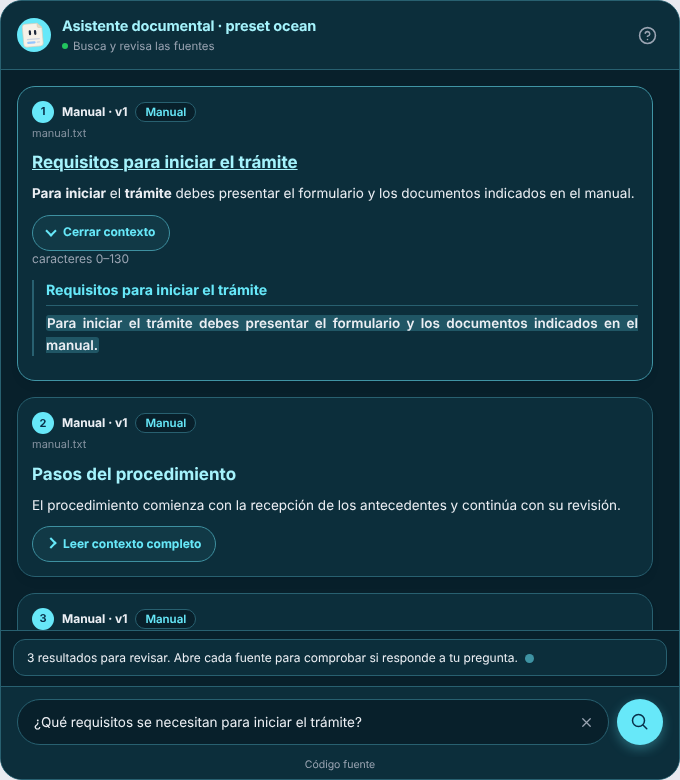
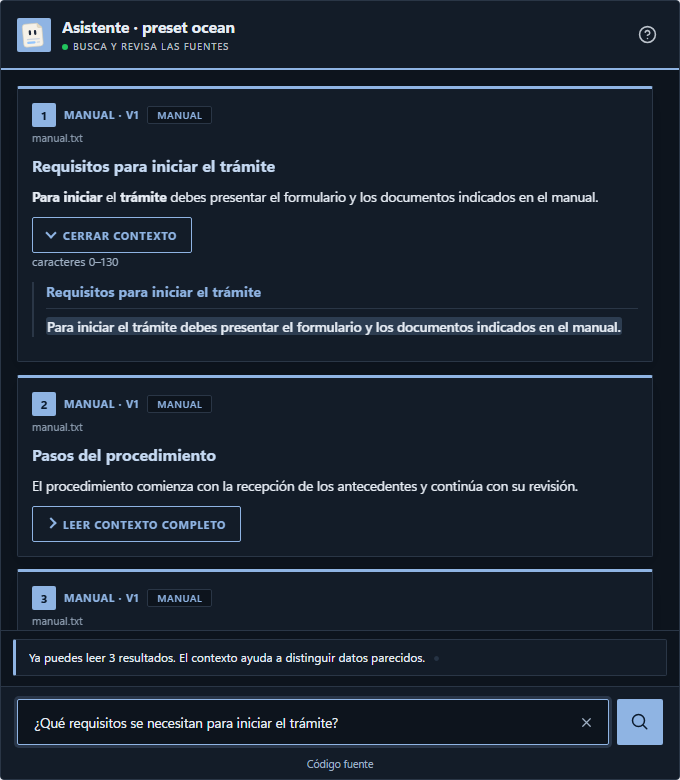
feat(widget): temas editorial e institucional con estructura propia
editorial y forest componen los resultados como un periódico (titulares serif,
filetes, versalitas, enlaces); ocean y midnight son institucionales (cabecera
sólida, esquinas rectas, rótulos en mayúsculas, filete sobre cada tarjeta).
Ya no son recolores del diseño clásico. La estructura va por data-preset, así que
classic, minimal, contrast y los buscadores no cambian. Se regeneran las capturas.

Changed region(s): [[0.0, 0.0, 1.0, 1.0], [0.9265, 0.0308, 0.9574, 0.0615]]

diff --git a/ipsis/servicio/estaticos/widget.js b/ipsis/servicio/estaticos/widget.js
@@ -285,6 +285,58 @@
   // los que se usan si el servicio no responde: `config/styles.yaml`
   // las redefine y el servicio las sirve en /styles.css, que se enlaza
   // DESPUES de este bloque (ver mas abajo) y por tanto gana.
+  // Estructura por preset que las variables no alcanzan: @E editorial, @F forest, @I institucional, @A todas.
+  var FAMILIAS = [
+    "@E .rw-cabecera{border-bottom:3px double var(--rw-borde);}",
+    "@E .rw-busqueda .rw-resultado{background:transparent;border:0;border-top:1px solid var(--rw-borde-resultado);",
+    "  border-radius:0;box-shadow:none;padding:18px 2px 20px;margin:0;}",
+    "@E .rw-busqueda .rw-resultado:first-child{border-top:2px solid var(--rw-texto);}",
+    "@E .rw-busqueda .rw-resultado-numero{min-width:0;height:auto;padding:0;background:none;color:var(--rw-acento);",
+    "  font:italic 400 24px/1 var(--rw-fuente-titulo);}",
+    "@E .rw-resultado-alcance{padding:0 0 0 9px;border:0;border-left:1px solid var(--rw-borde-resultado);border-radius:0;",
+    "  background:transparent;color:var(--rw-texto-suave);font-weight:500;}",
+    "@E .rw-busqueda .rw-resultado-titulo{line-height:1.22;}",
+    "@E .rw-resultado-vista,@E .rw-documento{font-family:var(--rw-fuente-titulo);}",
+    "@E .rw-busqueda details > summary{min-height:0;padding:0 0 2px;border:0;border-bottom:1px solid currentColor;",
+    "  border-radius:0;background:transparent;font-size:10.5px;text-transform:uppercase;letter-spacing:.1em;}",
+    "@E .rw-seguir{border:1px solid var(--rw-texto);background:transparent;color:var(--rw-texto);",
+    "  text-transform:uppercase;letter-spacing:.1em;}",
+    "@E .rw-voz-burbuja{padding:2px 0 2px 14px;background:transparent;border:0 solid var(--rw-acento);border-left-width:2px;font:italic 1em var(--rw-fuente-titulo);}",
+    "@F .rw-busqueda .rw-resultado,@F .rw-busqueda .rw-resultado:first-child{background:var(--rw-superficie);",
+    "  border:1px solid var(--rw-borde-resultado);border-inline-start:4px solid var(--rw-acento);",
+    "  border-radius:0 var(--rw-radio-control) var(--rw-radio-control) 0;padding:14px 16px 16px;margin:0 0 14px;}",
+    "@I[data-preset=ocean]{--rw-cab-fondo:var(--rw-acento);--rw-cab-texto:var(--rw-acento-texto);--rw-cab-linea:transparent;}",
+    "@I[data-preset=midnight]{--rw-cab-fondo:var(--rw-superficie);--rw-cab-texto:var(--rw-texto);--rw-cab-linea:var(--rw-acento);}",
+    "@media (prefers-color-scheme:dark){@I[data-preset=ocean]{--rw-cab-fondo:var(--rw-superficie);",
+    "  --rw-cab-texto:var(--rw-texto);--rw-cab-linea:var(--rw-acento);}}",
+    "@I .rw-cabecera{background:var(--rw-cab-fondo);color:var(--rw-cab-texto);border-bottom:2px solid var(--rw-cab-linea);}",
+    "@I .rw-cabecera h2{color:var(--rw-cab-texto);}",
+    "@I .rw-subtitulo,@I .rw-cabecera summary,@I .rw-cerrar{color:color-mix(in srgb,var(--rw-cab-texto) 80%,transparent);}",
+    "@I .rw-cabecera summary:hover,@I .rw-cerrar:hover,@I .rw-cerrar:focus-visible{color:var(--rw-cab-texto);",
+    "  background:color-mix(in srgb,var(--rw-cab-texto) 14%,transparent);}",
+    "@I .rw-busqueda .rw-resultado{border-top:3px solid var(--rw-acento);box-shadow:none;}",
+    "@I .rw-busqueda .rw-resultado:hover{border-color:var(--rw-borde-resultado);border-top-color:var(--rw-acento);}",
+    "@I .rw-busqueda .rw-resultado-numero{min-width:24px;height:24px;border-radius:2px;font-size:12px;}",
+    "@I .rw-resultado-alcance{border-radius:2px;text-transform:uppercase;letter-spacing:.05em;font-size:10px;}",
+    "@I .rw-busqueda details > summary{border-radius:2px;font-size:11px;text-transform:uppercase;letter-spacing:.07em;",
+    "  background:transparent;border-color:var(--rw-acento);}",
+    "@I .rw-busqueda details > summary:hover{background:var(--rw-acento);color:var(--rw-acento-texto);}",
+    "@I .rw-seguir{background:var(--rw-acento);color:var(--rw-acento-texto);border-color:var(--rw-acento);",
+    "  text-transform:uppercase;letter-spacing:.09em;}",
+    "@I .rw-voz-burbuja{border-left:3px solid var(--rw-acento);}",
+    "@A .rw-subtitulo{text-transform:uppercase;letter-spacing:.09em;font-size:10px;}",
+    "@A .rw-resultado-doc{text-transform:uppercase;letter-spacing:.08em;}",
+    "@E .rw-resultado-doc{color:var(--rw-acento);}@I .rw-resultado-doc{color:var(--rw-seccion);}",
+    "@A .rw-voz-burbuja{border-radius:var(--rw-radio-control);box-shadow:none;}",
+    "@A .rw-voz[data-avatar='si'] .rw-voz-burbuja::after{display:none;}",
+    "@A .rw-seguir,@A .rw-sugerencias button{border-radius:var(--rw-radio-control);box-shadow:none;}",
+    "@A[data-modo='busqueda'] .rw-form input,@A[data-modo='busqueda'] .rw-form .rw-enviar{border-radius:var(--rw-radio-control);}",
+    "@A[data-modo='busqueda'] .rw-form .rw-enviar{box-shadow:none;}",
+  ].join("\n")
+    .replace(/@E/g, ".rw-panel:is([data-preset=editorial],[data-preset=forest])").replace(/@F/g, ".rw-panel[data-preset=forest]")
+    .replace(/@I/g, ".rw-panel:is([data-preset=ocean],[data-preset=midnight])")
+    .replace(/@A/g, ".rw-panel:is([data-preset=editorial],[data-preset=forest],[data-preset=ocean],[data-preset=midnight])");
+
   estilos.textContent = [
     ".rw-raiz{",
     "  --rw-acento:" + COLOR_ACENTO + ";",
@@ -826,6 +878,8 @@
     ".rw-panel[data-animaciones='false'] .rw-esq-tarjeta,.rw-panel[data-animaciones='false'] .rw-esqueleto-estado i{animation:none;}",
     "@media(prefers-reduced-motion:reduce){.rw-esq-tarjeta,.rw-esqueleto-estado i,.rw-busqueda .rw-resultado,",
     "  .rw-sugerencias button{animation:none;transition:none;}}",
+
+    FAMILIAS,
 
     // Teléfono (o apaisado bajo): hoja a pantalla completa. La altura sigue al
     // viewport visible, así el teclado virtual no tapa el campo de texto.

diff --git a/ipsis/aplicacion/widget.py b/ipsis/aplicacion/widget.py
@@ -29,6 +29,10 @@ def contenido_publico(tema: dict) -> dict:
     return a_externo({"contenido": tema.get("contenido") or {}}, "estilos")["content"]
 
 
+# Pilas del sistema: sin descargar tipografías (el widget no pide recursos a terceros).
+_SANS_INSTITUCIONAL = "'Segoe UI Variable Text', 'Segoe UI', system-ui, -apple-system, Roboto, 'Helvetica Neue', Arial, sans-serif"
+_SERIF_EDITORIAL = "'Iowan Old Style', 'Palatino Linotype', Palatino, 'Book Antiqua', Georgia, serif"
+
 PRESETS: dict[str, dict[str, Any]] = {
     "clasico": {
         "tema": {},
@@ -45,15 +49,19 @@ PRESETS: dict[str, dict[str, Any]] = {
     "editorial": {
         "tema": {
             "colores": {
-                "acento": "#8b2f3c", "acento_texto": "#fffaf3", "superficie": "#fffdf8",
-                "fondo": "#f5efe5", "texto": "#29231f", "texto_suave": "#70655c",
-                "borde": "#ded2c4", "aviso": "#8a5a18", "aviso_borde": "#b9812d",
+                "acento": "#8f1d2c", "acento_texto": "#fff8f0", "superficie": "#fffefb", "fondo": "#f4efe6",
+                "texto": "#1c1917", "texto_suave": "#6a6259", "borde": "#d8cfc2", "aviso": "#8a5a18", "aviso_borde": "#b9812d",
+                "borde_resultado": "#cfc4b5",
             },
-            "colores_oscuro": {"acento": "#f2a6af", "acento_texto": "#29231f", "superficie": "#24201e",
-                                "fondo": "#191614", "texto": "#f5efe5", "texto_suave": "#c0b4a8", "borde": "#4c4037"},
-            "tipografia": {"familia": "Georgia, 'Times New Roman', serif", "interlineado": "1.65", "tamano_titulo": "20px"},
-            "forma": {"radio_panel": "8px", "radio_burbuja": "6px", "radio_control": "4px"},
-            "presentacion": {"densidad": "comoda", "citas": "lista", "diseno_resultados": "editorial"},
+            "colores_oscuro": {"acento": "#e8a0a9", "acento_texto": "#2a0c10", "superficie": "#201c19", "fondo": "#171412",
+                                "texto": "#f1ebe2", "texto_suave": "#b5aa9d", "borde": "#3c342d", "borde_resultado": "#4a4037"},
+            "tipografia": {"familia": _SANS_INSTITUCIONAL, "familia_titulo": _SERIF_EDITORIAL, "interlineado": "1.6",
+                           "tamano_titulo": "21px", "peso_titulo": "600", "tamano_cita": "12px"},
+            "forma": {"radio_panel": "4px", "radio_burbuja": "2px", "radio_control": "2px", "radio_resultado": "0px",
+                      "relleno_resultado": "4px", "separacion_resultado": "0px"},
+            "sombras": {"panel": "0 1px 2px rgba(28,25,23,.06), 0 14px 36px -14px rgba(28,25,23,.26)",
+                        "boton": "0 6px 18px rgba(28,25,23,.26)"},
+            "presentacion": {"densidad": "comoda", "citas": "lista", "alineacion": "inicio", "diseno_resultados": "editorial"},
         },
     },
     "contraste": {
@@ -97,34 +105,57 @@ PRESETS: dict[str, dict[str, Any]] = {
     },
     "oceano": {
         "tema": {
-            "colores": {"acento": "#0e7490", "fondo": "#ecfeff", "superficie": "#ffffff",
-                        "titulo": "#155e75", "seccion": "#0e7490", "borde": "#a5d5de", "borde_resultado": "#a5d5de"},
-            "colores_oscuro": {"acento": "#67e8f9", "acento_texto": "#082f49", "fondo": "#08202b",
-                               "superficie": "#0c2e3b", "titulo": "#a5f3fc", "seccion": "#67e8f9", "borde": "#286070",
-                               "borde_resultado": "#286070"},
-            "forma": {"radio_resultado": "18px", "radio_panel": "22px"},
+            "colores": {
+                "acento": "#12355b", "acento_texto": "#ffffff", "superficie": "#ffffff", "fondo": "#f2f5f9",
+                "texto": "#14202e", "texto_suave": "#566579", "borde": "#d3dbe6", "borde_resultado": "#d3dbe6",
+                "titulo": "#12355b", "seccion": "#35516f",
+            },
+            "colores_oscuro": {"acento": "#8fb4e3", "acento_texto": "#0b1a2c", "superficie": "#131c28", "fondo": "#0d141d",
+                               "texto": "#e6ecf4", "texto_suave": "#9fb0c4", "borde": "#2a3646", "borde_resultado": "#2a3646",
+                               "titulo": "#c5d9f2", "seccion": "#8fb4e3"},
+            "tipografia": {"familia": _SANS_INSTITUCIONAL, "familia_titulo": _SANS_INSTITUCIONAL, "interlineado": "1.55",
+                           "tamano_titulo": "16px", "peso_titulo": "650"},
+            "forma": {"radio_panel": "4px", "radio_burbuja": "2px", "radio_control": "2px", "radio_resultado": "2px",
+                      "separacion_resultado": "12px", "relleno_resultado": "14px"},
+            "sombras": {"panel": "0 1px 2px rgba(10,25,47,.08), 0 16px 40px -16px rgba(10,25,47,.32)",
+                        "boton": "0 6px 18px rgba(10,25,47,.3)"},
+            "presentacion": {"densidad": "comoda", "citas": "acordeon", "diseno_resultados": "tarjetas"},
         },
     },
     "bosque": {
         "tema": {
-            "colores": {"acento": "#166534", "fondo": "#f0f7ee", "superficie": "#fffef8",
-                        "titulo": "#14532d", "seccion": "#3f6544", "borde": "#c4d8bd", "borde_resultado": "#c4d8bd"},
-            "colores_oscuro": {"acento": "#86efac", "acento_texto": "#102518", "fondo": "#101e16",
-                               "superficie": "#1b2c20", "titulo": "#bbf7d0", "seccion": "#a4ccab", "borde": "#395c40",
-                               "borde_resultado": "#395c40"},
-            "tipografia": {"familia_titulo": "Georgia, 'Times New Roman', serif", "tamano_titulo": "19px"},
-            "presentacion": {"diseno_resultados": "editorial"},
+            "colores": {
+                "acento": "#1f5a3b", "acento_texto": "#f6fbf7", "superficie": "#fcfdfb", "fondo": "#eff3ee",
+                "texto": "#161d18", "texto_suave": "#5c685f", "borde": "#d0dbd0", "borde_resultado": "#c3d1c4",
+            },
+            "colores_oscuro": {"acento": "#8fd0a6", "acento_texto": "#0c2216", "superficie": "#17211b", "fondo": "#0f1612",
+                               "texto": "#e8efe9", "texto_suave": "#a5b3a8", "borde": "#2f3f34", "borde_resultado": "#3a4d3f"},
+            "tipografia": {"familia": _SANS_INSTITUCIONAL, "familia_titulo": _SERIF_EDITORIAL, "interlineado": "1.6",
+                           "tamano_titulo": "21px", "peso_titulo": "600", "tamano_cita": "12px"},
+            "forma": {"radio_panel": "4px", "radio_burbuja": "2px", "radio_control": "2px", "radio_resultado": "0px",
+                      "relleno_resultado": "4px", "separacion_resultado": "0px"},
+            "sombras": {"panel": "0 1px 2px rgba(22,29,24,.06), 0 14px 36px -14px rgba(22,29,24,.26)",
+                        "boton": "0 6px 18px rgba(22,29,24,.26)"},
+            "presentacion": {"densidad": "comoda", "citas": "lista", "alineacion": "inicio", "diseno_resultados": "editorial"},
         },
     },
     "medianoche": {
         "tema": {
-            "colores": {"acento": "#c4b5fd", "acento_texto": "#1e1b4b", "superficie": "#222039",
-                        "fondo": "#151325", "texto": "#f5f3ff", "texto_suave": "#c1bdd6", "borde": "#4c4669",
-                        "titulo": "#ddd6fe", "seccion": "#c4b5fd"},
-            "colores_oscuro": {"acento": "#c4b5fd", "acento_texto": "#1e1b4b", "superficie": "#222039",
-                               "fondo": "#151325", "texto": "#f5f3ff", "texto_suave": "#c1bdd6", "borde": "#4c4669",
-                               "titulo": "#ddd6fe", "seccion": "#c4b5fd"},
-            "tipografia": {"familia": "'Segoe UI', Helvetica, Arial, sans-serif", "peso_titulo": "700"},
+            "colores": {"acento": "#d9b86c", "acento_texto": "#1a1406", "superficie": "#161d27", "fondo": "#0e131a",
+                        "texto": "#e6ebf2", "texto_suave": "#98a5b6", "borde": "#273140", "borde_resultado": "#2d3949",
+                        "titulo": "#f2f5f9", "seccion": "#d9b86c"},
+            "colores_oscuro": {"acento": "#d9b86c", "acento_texto": "#1a1406", "superficie": "#161d27", "fondo": "#0e131a",
+                               "texto": "#e6ebf2", "texto_suave": "#98a5b6", "borde": "#273140", "borde_resultado": "#2d3949",
+                               "titulo": "#f2f5f9", "seccion": "#d9b86c"},
+            "tipografia": {"familia": _SANS_INSTITUCIONAL, "familia_titulo": _SANS_INSTITUCIONAL, "interlineado": "1.55",
+                           "tamano_titulo": "16px", "peso_titulo": "650"},
+            "forma": {"radio_panel": "4px", "radio_burbuja": "2px", "radio_control": "2px", "radio_resultado": "2px",
+                      "separacion_resultado": "12px", "relleno_resultado": "14px"},
+            "sombras": {"panel": "0 1px 2px rgba(0,0,0,.4), 0 18px 44px -14px rgba(0,0,0,.65)",
+                        "boton": "0 6px 18px rgba(0,0,0,.5)",
+                        "panel_oscuro": "0 1px 2px rgba(0,0,0,.4), 0 18px 44px -14px rgba(0,0,0,.65)",
+                        "boton_oscuro": "0 6px 18px rgba(0,0,0,.5)"},
+            "presentacion": {"densidad": "comoda", "citas": "acordeon", "diseno_resultados": "tarjetas"},
         },
     },
 }

diff --git a/tests/integracion/test_widget_browser.py b/tests/integracion/test_widget_browser.py
@@ -453,8 +453,8 @@ def test_temas_reales_demarcadores_y_titulos_personalizables(navegador, servidor
     expect(page.locator(".rw-resultado")).to_have_count(3)
     expect(page.locator(".rw-resultado-numero")).to_have_text(["1", "2", "3"])
     tarjeta = page.locator(".rw-resultado").first
-    assert tarjeta.evaluate("e => parseFloat(getComputedStyle(e).borderBottomWidth)") > 0 or tarjeta.evaluate(
-        "e => parseFloat(getComputedStyle(e).borderInlineStartWidth)") > 0
+    assert any(tarjeta.evaluate(f"e => parseFloat(getComputedStyle(e).{lado})") > 0
+               for lado in ("borderBottomWidth", "borderTopWidth", "borderInlineStartWidth"))
     titulo = tarjeta.locator(".rw-resultado-titulo")
     assert titulo.evaluate("e => getComputedStyle(e).color") == titulo.evaluate(
         "e => { var x=document.createElement('span');x.style.color='var(--rw-titulo)';e.append(x);"

diff --git a/tests/aplicacion/test_widget.py b/tests/aplicacion/test_widget.py
@@ -41,7 +41,7 @@ def test_aplicar_preset_preserva_css_extra_y_escribe_yaml_valido(tmp_path):
 
     assert tema == persistido
     assert persistido["preset"] == "editorial"
-    assert persistido["colores"]["acento"] == "#8b2f3c"
+    assert persistido["colores"]["acento"] == "#8f1d2c"
     assert persistido["css_extra"] == ".marca{display:block}"
 
 

diff --git a/docs/es/guia/web.md b/docs/es/guia/web.md
@@ -269,7 +269,13 @@ comprobarla:
 Los resultados se distinguen con tarjetas (`cards`), separadores (`lines`) o
 un margen editorial (`editorial`). Los presets `classic`, `minimal`,
 `editorial`, `contrast`, `search`, `search_compact`, `ocean`, `forest` y
-`midnight` combinan estos diseños con sus colores y tipografías.
+`midnight` combinan estos diseños con sus colores y tipografías. Dos de ellos van más
+allá del color y tienen estructura propia: **editorial** (`editorial`, `forest`: titulares
+serif, filetes de periódico, rótulos en versalitas y enlaces subrayados en lugar de botones
+píldora; `forest` compone los resultados como notas de papel con barra lateral) e
+**institucional** (`ocean`, `midnight`: cabecera sólida, esquinas rectas, rótulos en
+mayúsculas y un filete sobre cada resultado). Las fuentes son pilas del sistema: no se
+descarga nada de terceros.
 
 Los títulos tienen color, fuente, tamaño y peso propios. Puedes ajustar las
 secciones, los bordes y el fondo de los resultados sin cambiar el color de los

diff --git a/docs/guide/web.md b/docs/guide/web.md
@@ -255,7 +255,12 @@ they show:
 Results use cards (`cards`), dividers (`lines`) or an editorial margin
 (`editorial`). The `classic`, `minimal`, `editorial`, `contrast`, `search`,
 `search_compact`, `ocean`, `forest` and `midnight` presets combine these layouts
-with distinct palettes and typography.
+with distinct palettes and typography. Two of them go further than colors and have
+their own structure: **editorial** (`editorial`, `forest`: serif headlines, newspaper
+rules, small-caps labels and underlined links instead of pill buttons; `forest` composes
+the results as paper notes with a side bar) and **institutional** (`ocean`, `midnight`:
+solid header, square corners, uppercase labels and a rule above each result). Their
+fonts are system stacks: nothing is downloaded from third parties.
 
 Headings have their own color, font, size and weight. Section colors, result
 backgrounds and dividers can be adjusted independently of button colors:

diff --git a/CHANGELOG.md b/CHANGELOG.md
@@ -6,6 +6,13 @@ a minor change may break compatibility and is marked as such.
 
 ## [Unreleased]
 
+- **Redesigned themes.** `editorial` and `forest` now compose results like a newspaper (serif headlines, rules,
+  small-caps labels, underlined links; `forest` uses paper notes with a side bar) and `ocean` and `midnight` are
+  institutional (solid header, square corners, uppercase labels, a rule above each result), instead of recolors of the
+  classic layout. Palettes have light and dark variants and use system font stacks. The preset names are unchanged.
+  The structure is scoped by `data-preset`, so `classic`, `minimal`, `contrast`, `search` and `search_compact` look the same.
+  README and guide screenshots were regenerated.
+
 ## [1.1.0] - 2026-10-17
 
 **Upgrading from 1.0.0:** the first `ipsis` command migrates a v2 project to `config_version` 8 and, if it had not chosen
